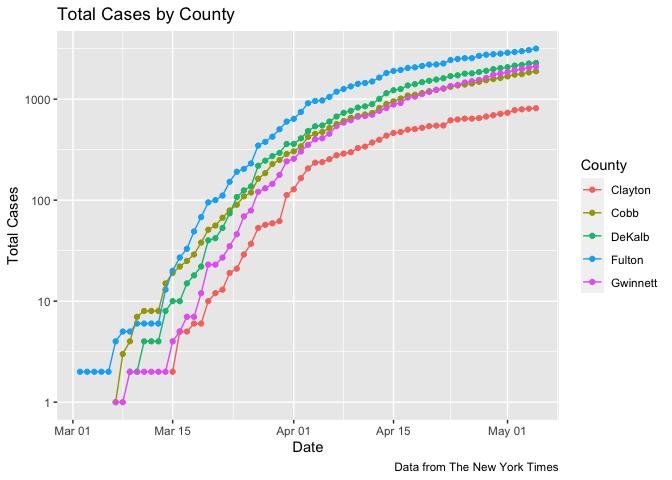
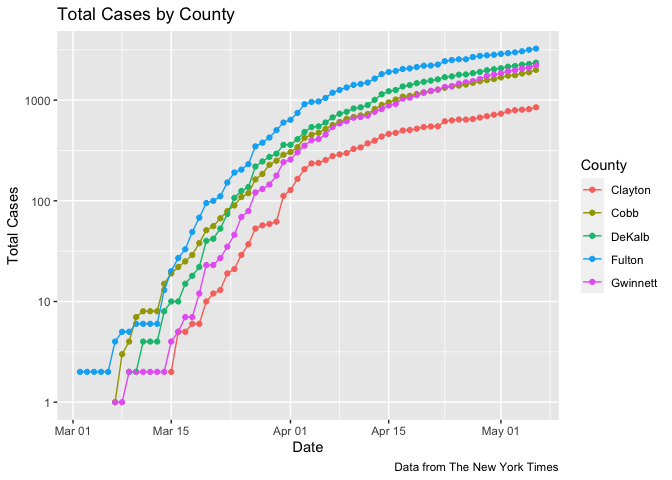
Updated data

diff --git a/Metro_Atlanta_COVID.md b/Metro_Atlanta_COVID.md
@@ -16,7 +16,7 @@ It’s hard to know how to interpret these numbers since there are major
 known unknowns. Neither confirmed cases nor deaths can be said to be
 reliable counts of the true numbers.
 
-Data current as of May 06,
+Data current as of May 07,
 2020.
 
 # Metro Atlanta
